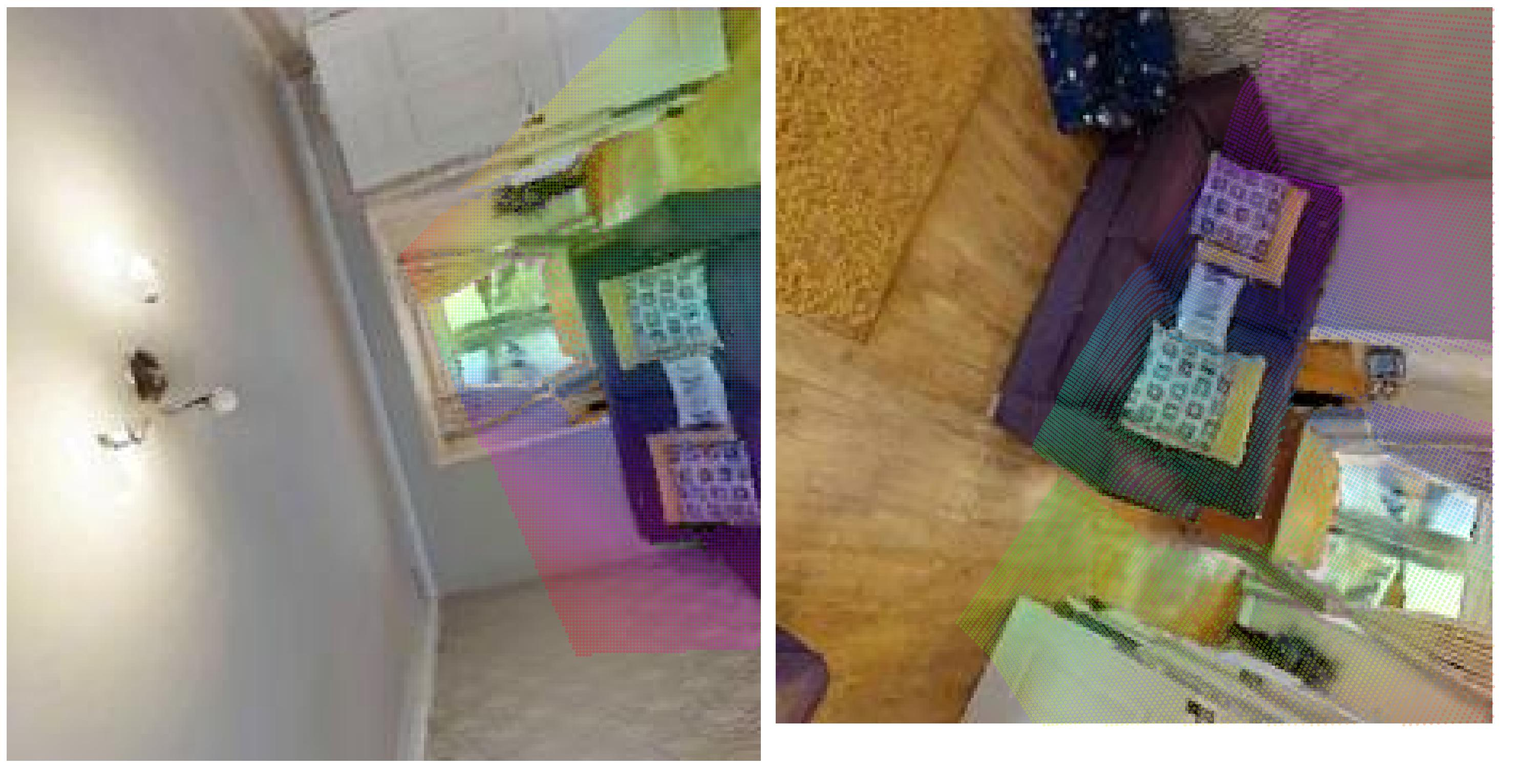
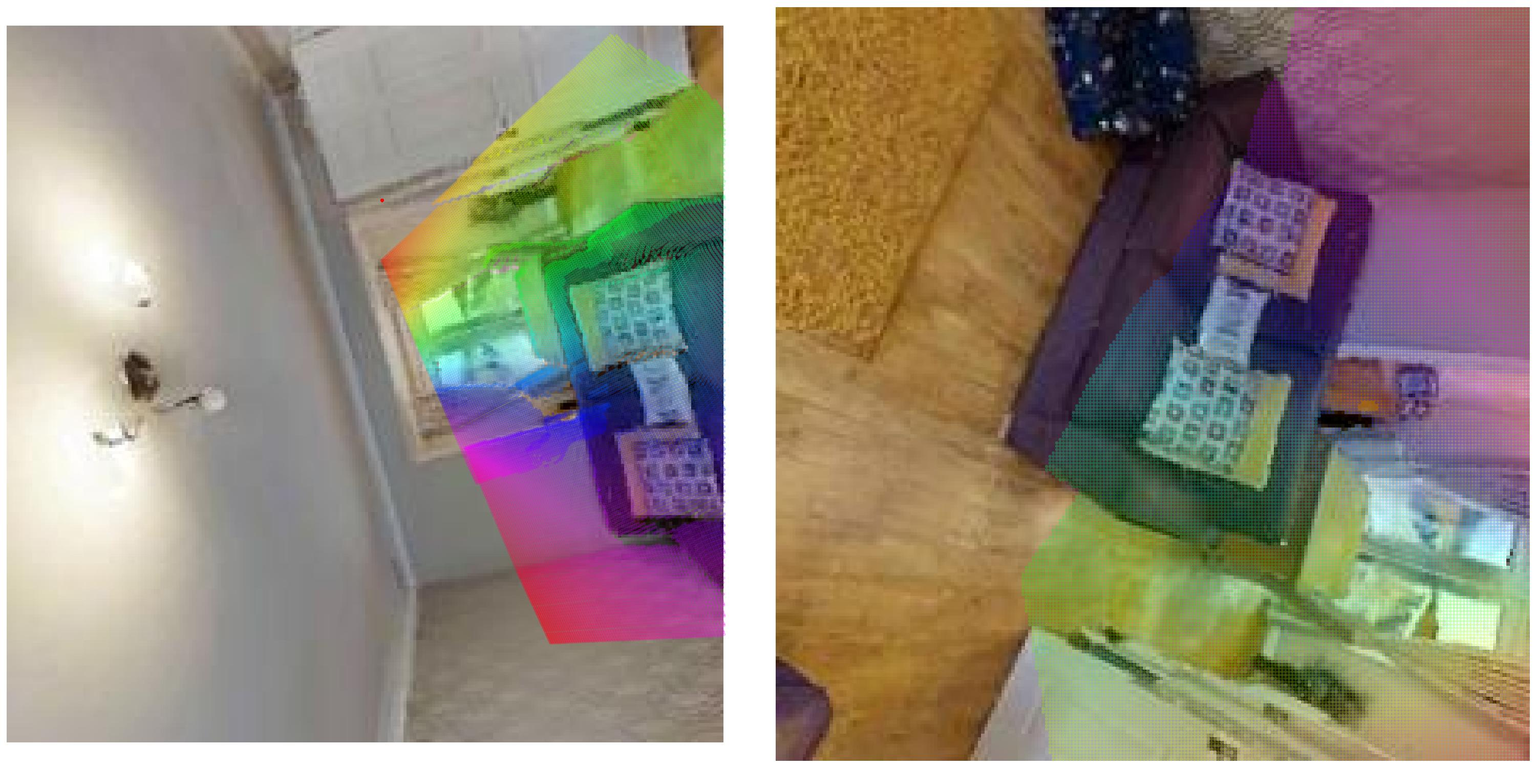
Filter point cloud based on pixel mask

diff --git a/functions.py b/functions.py
@@ -153,11 +153,11 @@ def project_to_image(point_cloud, intrinsics, T_cam_world, method="torch"):
 
         # Move points from world into cam0's frame
         point_cloud_extended = torch.cat((point_cloud, torch.ones((point_cloud.shape[0], 1))), dim=1)
-        transformed_point_cloud = (point_cloud_extended @ T_world_cam.T)[:, :3]  # Extract XYZ
+        point_cloud_cam_frame = (point_cloud_extended @ T_world_cam.T)[:, :3]  # Extract XYZ
 
         # Project into ideal camera via perspective transformation
         # NOTE - this clone is redundant, but has been kept for readability
-        pixel_coords = transformed_point_cloud.clone()  # (N, 3)
+        pixel_coords = point_cloud_cam_frame.clone()  # (N, 3)
 
         # Map the ideal image into the real image using intrinsic matrix
         f_x, f_y, W, H = intrinsics
@@ -188,7 +188,7 @@ def project_to_image(point_cloud, intrinsics, T_cam_world, method="torch"):
         K[0, 0], K[1, 1], K[0,2], K[1,2] = f_x, f_y, W/2, H/2
 
         # Project points
-        pixel_coords, _ = cv2.projectPointT_world_cams(
+        pixel_coords, _ = cv2.projectPoints(
             objectPoints=np.array(point_cloud, dtype=np.float32), 
             rvec=np.array(rotvec, dtype=np.float32), 
             tvec=np.array(translation, dtype=np.float32), 
@@ -209,9 +209,9 @@ def project_to_image(point_cloud, intrinsics, T_cam_world, method="torch"):
     # Flip x coords due to difference in coordinate convention
     pixel_coords[:,0] = W - pixel_coords[:,0]
 
-    return pixel_coords
+    return pixel_coords, point_cloud_cam_frame
 
-def remove_border_points(ps_0, ps_1, intrinsics_0, intrinsics_1):
+def remove_border_points(ps_0, pcl_0, pcl_1, intrinsics_0):
     """
     Filters out points that fall outside the valid image boundaries in both camera views.
 
@@ -233,25 +233,13 @@ def remove_border_points(ps_0, ps_1, intrinsics_0, intrinsics_1):
     """
     _, _, W, H = intrinsics_0
 
-    mask_0 = (
+    mask = (
     (ps_0[:, 0] >= 0) & (ps_0[:, 0] < W) & # Within image width
-    (ps_0[:, 1] >= 0) & (ps_0[:, 1] < H) # Within image height
+    (ps_0[:, 1] >= 0) & (ps_0[:, 1] < H) & # Within image height
+    (pcl_0[:,2] < 0) & (pcl_1[:,2] < 0)
     )
 
-    ps_0 = ps_0[mask_0]
-    ps_1 = ps_1[mask_0]
-
-    _, _, W, H = intrinsics_1
-
-    mask_1 = (
-    (ps_1[:, 0] >= 0) & (ps_1[:, 0] < W) &
-    (ps_1[:, 1] >= 0) & (ps_1[:, 1] < H)
-    )
-
-    ps_0 = ps_0[mask_1]
-    ps_1 = ps_1[mask_1]
-
-    return ps_0, ps_1
+    return mask
 
 def visualise_cams_clouds(point_cloud_0=None, camera_0=None, point_cloud_1=None, camera_1=None):
     """

diff --git a/challenge.py b/challenge.py
@@ -252,9 +252,15 @@ def generate(idx):
     #visualise_cams_clouds(point_cloud_0=transformed_pcl_0, point_cloud_1=transformed_pcl_1, camera_0=camera_0, camera_1=camera_1)
     ##############
 
-    # 2.5. Find which points are in common by distance to nearest point in the other point cloud
+    # 3. Project points into image space
 
-    common_pcl = find_common_points(transformed_pcl_0, transformed_pcl_1, threshold=0.03)
+    ps_0, pcl_1_cam_frame = project_to_image(transformed_pcl_1, intrinsics_0, T_cam0_world)
+    ps_1, pcl_0_cam_frame = project_to_image(transformed_pcl_0, intrinsics_1, T_cam1_world)
+
+    # 3.5 Mask points that lie outside the image
+
+    mask = remove_border_points(ps_0, pcl_0_cam_frame, pcl_1_cam_frame, intrinsics_0)
+    common_pcl = transformed_pcl_1[mask]
 
     ##############
     #camera_test = create_camera_gizmo(np.eye(4), meta_0.cam_fov, img_0.shape[:2], 0.25)
@@ -263,12 +269,10 @@ def generate(idx):
     #visualise_cams_clouds(point_cloud_0=common_pcl, point_cloud_1=common_pcl, camera_0=camera_0, camera_1=camera_1)
     ##############
 
-    # 3. Project points into image space
+    # 4. Project masked points into image space
 
-    ps_0 = project_to_image(common_pcl, intrinsics_0, T_cam0_world, method="torch")
-    ps_1 = project_to_image(common_pcl, intrinsics_1, T_cam1_world, method="opencv")
-
-    ps_0, ps_1 = remove_border_points(ps_0, ps_1, intrinsics_0, intrinsics_1)
+    ps_0, _ = project_to_image(common_pcl, intrinsics_0, T_cam0_world)
+    ps_1, _ = project_to_image(common_pcl, intrinsics_1, T_cam1_world)
 
     # Finally, convert from tensors to numpy arrays as everything from here on is visualization
     ps_0 = np.asarray(ps_0, dtype=np.float32)
